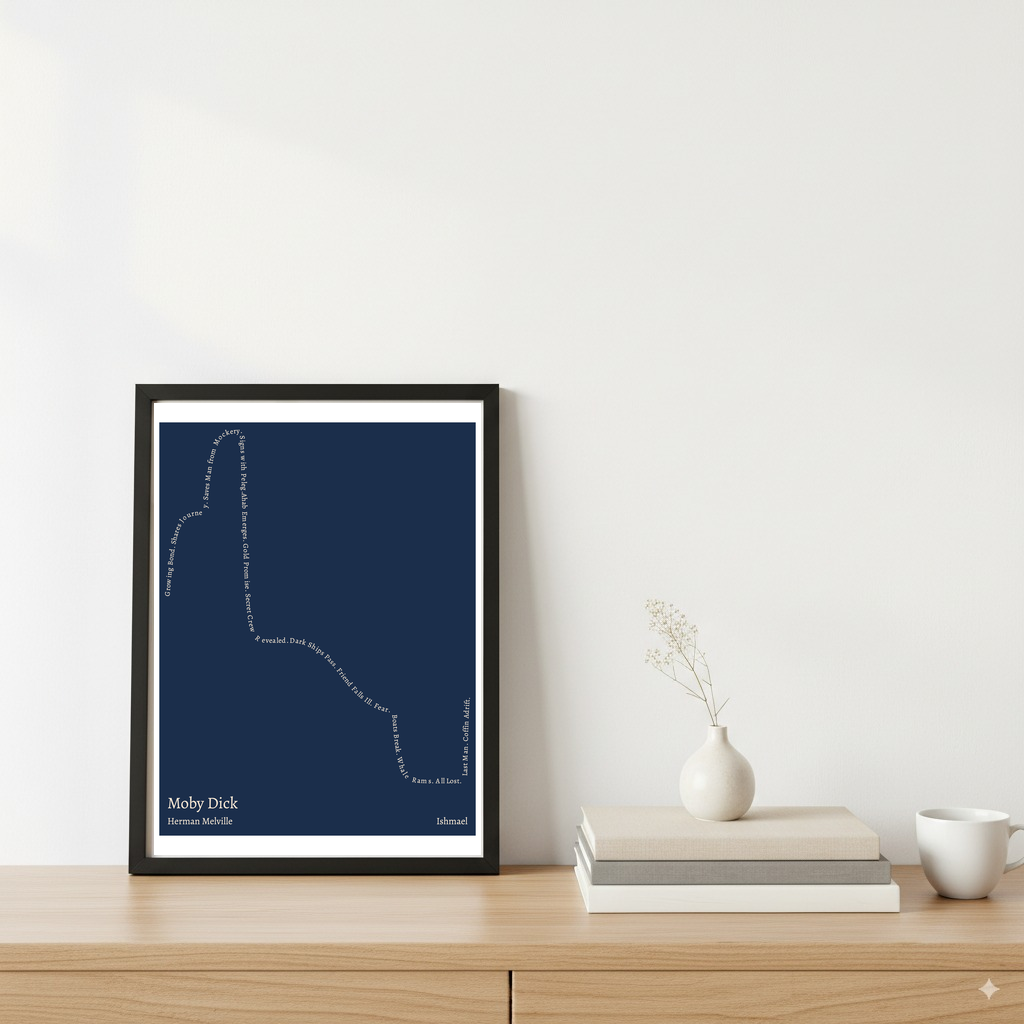
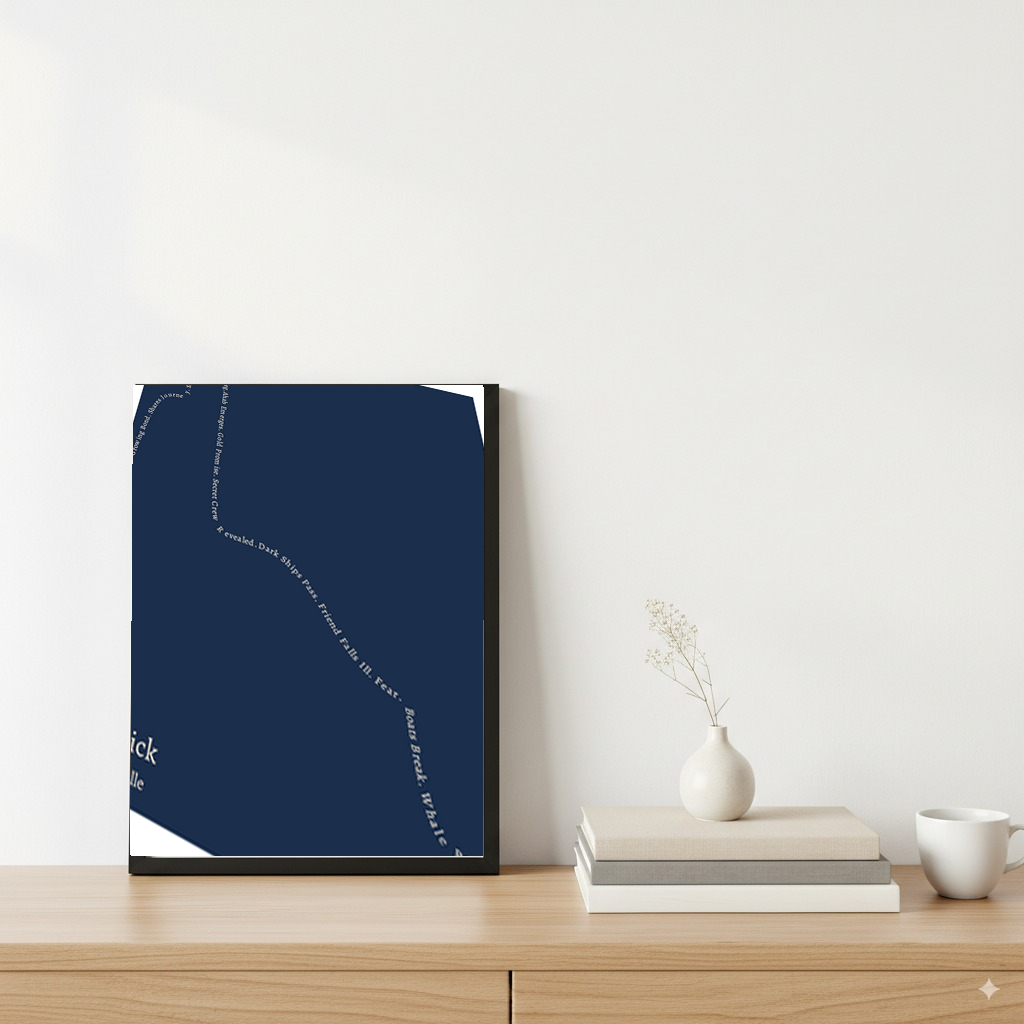
fixed issues with margins on right/left/top

diff --git a/src/create_mockup_v4.py b/src/create_mockup_v4.py
@@ -1,105 +1,103 @@
+
 # create_mockup.py
-# -----------------
-# Paste an artwork image into the inner mat opening of the mockup
-# image "11x14_1_frame_on_table" (straight-on; no keystone).
+# Perspective-safe mockup compositor: auto-detects the inner mat opening
+# as a quadrilateral and warps your art into it.
 #
-# Just set:
-#   BASE_PATH  -> your mockup image path
-#   ART_PATH   -> your design image path
-#   OUT_PATH   -> where to save the result
-#
-# Advanced: If you use a different-resolution copy of this mockup,
-# the code scales the opening rectangle from the 1024×1024 reference.
+# Set BASE_PATH, ART_PATH, OUT_PATH below and run:
+#   python create_mockup.py
 
 from PIL import Image, ImageOps, ImageDraw
+import numpy as np
 
-# --- USER INPUTS -------------------------------------------------------------
+# ------------------- USER INPUTS -------------------
 BASE_PATH = "/Users/johnmikedidonato/Projects/TheShapesOfStories/mockup_templates/11x14_1_frame_on_table.jpeg"  # mockup image
 ART_PATH  = "/Users/johnmikedidonato/Library/CloudStorage/GoogleDrive-johnmike@theshapesofstories.com/My Drive/data/story_shapes/title-moby-dick_protagonist-ishmael_product-print_size-11x14_line-type-char_background-color-#1B2E4B_font-color-#F5E6D3_border-color-#FFFFFF_font-Alegreya_title-display-yes.png"              # your artwork
 OUT_PATH  = "final_mockup_test_6.png"            # output
 
+# Measured on the 1024×1024 reference mockup (TL, TR, BR, BL)
+QUAD_REF = [(132, 383), (484, 383), (483, 857), (129, 857)]
+REF_SIZE = (1024, 1024)
 
-# Safety inset to hide the mat bevel (in pixels for the 1024×1024 reference);
-# will scale with image size.
-BLEED_REF_PX = 2
+INSET_PX_REF = 2      # inward safety inset at reference size
+SAVE_DEBUG = False    # set True to export an outline overlay
 
-# Debug: also save a version with a thin rectangle drawn over the opening
-SAVE_DEBUG_OVERLAY = False
-DEBUG_PATH = OUT_PATH.replace(".png", "_debug.png").replace(".jpg", "_debug.jpg")
+def scale_point(p, base_size, ref_size=REF_SIZE):
+    rx, ry = ref_size
+    bx, by = base_size
+    return (int(round(p[0] * bx / rx)), int(round(p[1] * by / ry)))
 
-# --- TEMPLATE-SPECIFIC CALIBRATION (do not change unless you re-measure) -----
-# Coordinates measured on the 1024×1024 reference mockup.
-REF_W, REF_H = 1024, 1024
+def scale_quad(quad, base_size):
+    return [scale_point(p, base_size) for p in quad]
 
-# Inner mat opening (the area where your print should appear)
-# (left, top, right, bottom) in the 1024×1024 reference
-#OPENING_BOX_REF = (131, 383, 482, 857)
-OPENING_BOX_REF = (152, 401, 483, 857)
+def inset_quad(quad, inset_px):
+    if inset_px <= 0:
+        return quad
+    cx = sum(p[0] for p in quad) / 4.0
+    cy = sum(p[1] for p in quad) / 4.0
+    out = []
+    for (x, y) in quad:
+        dx, dy = cx - x, cy - y
+        d = (dx*dx + dy*dy) ** 0.5 or 1.0
+        out.append((int(round(x + inset_px * dx / d)),
+                    int(round(y + inset_px * dy / d))))
+    return out
 
+def find_coeffs(pa, pb):
+    # pa: destination quad (TL,TR,BR,BL); pb: source quad (TL,TR,BR,BL)
+    matrix = []
+    for (x, y), (u, v) in zip(pa, pb):
+        matrix.extend([
+            [x, y, 1, 0, 0, 0, -u*x, -u*y],
+            [0, 0, 0, x, y, 1, -v*x, -v*y],
+        ])
+    A = [row[:] for row in matrix]
+    B = [u for (u, v) in pb] + [v for (u, v) in pb]
+    # small 8×8 solve
+    import numpy as np
+    return np.linalg.lstsq(np.array(A, float), np.array(B, float), rcond=None)[0].tolist()
 
-# If you ever want to cover closer to the inner mat edge:
-# OUTER_EDGE_BOX_REF = (148, 399, 498, 875)
-# -----------------------------------------------------------------------------
+def warp_into_quad(base, art, dst_quad):
+    bw, bh = base.size
+    xs, ys = zip(*dst_quad)
+    bb_w, bb_h = max(1, max(xs) - min(xs)), max(1, max(ys) - min(ys))
 
+    # Fit art to bounding box to keep resolution reasonable
+    art_fit = ImageOps.fit(art, (bb_w, bb_h), method=Image.LANCZOS)
+    src_quad = [(0, 0), (bb_w, 0), (bb_w, bb_h), (0, bb_h)]
 
-def scale_box(box, base_w, base_h, ref_w=REF_W, ref_h=REF_H):
-    """Scale a (l,t,r,b) box from reference size to the actual base image size."""
-    lx, ty, rx, by = box
-    sx = base_w / float(ref_w)
-    sy = base_h / float(ref_h)
-    return (
-        int(round(lx * sx)),
-        int(round(ty * sy)),
-        int(round(rx * sx)),
-        int(round(by * sy)),
-    )
+    coeffs = find_coeffs(dst_quad, src_quad)
+    warped = art_fit.transform((bw, bh), Image.PERSPECTIVE, coeffs, Image.BICUBIC)
 
+    # Polygon mask for crisp edges
+    mask = Image.new("L", (bw, bh), 0)
+    ImageDraw.Draw(mask).polygon(dst_quad, fill=255)
 
-def paste_into_opening(base_img, art_img, opening_box, bleed_px=0):
-    """Fit art into opening_box with optional inset (bleed_px) and paste."""
-    l, t, r, b = opening_box
-    # Apply safety inset
-    l += bleed_px
-    t += bleed_px
-    r -= bleed_px
-    b -= bleed_px
-
-    w, h = max(1, r - l), max(1, b - t)  # guard against rounding
-
-    # Fit art to exactly fill the opening while preserving aspect
-    fitted = ImageOps.fit(art_img, (w, h), method=Image.LANCZOS)
-
-    # Paste (handles alpha automatically if art has transparency)
-    base_img.paste(fitted, (l, t), fitted if fitted.mode == "RGBA" else None)
-    return base_img
-
-
-def draw_debug_overlay(img, box):
-    """Draw a 1px rectangle on a copy for visual verification."""
-    dbg = img.copy()
-    draw = ImageDraw.Draw(dbg)
-    draw.rectangle(box, outline=(255, 0, 255))
-    return dbg
-
+    # Composite (use paste with mask to avoid the earlier alpha_composite error)
+    base.paste(warped, (0, 0), mask)
+    return base
 
 def main():
     base = Image.open(BASE_PATH).convert("RGBA")
     art  = Image.open(ART_PATH).convert("RGBA")
 
-    # Scale opening box and bleed for the actual mockup size
-    opening_box = scale_box(OPENING_BOX_REF, base.width, base.height)
-    avg_scale = (base.width / REF_W + base.height / REF_H) / 2.0
-    bleed_px = max(1, int(round(BLEED_REF_PX * avg_scale)))
+    quad = scale_quad(QUAD_REF, base.size)
 
-    if SAVE_DEBUG_OVERLAY:
-        dbg = draw_debug_overlay(base, opening_box)
-        dbg.save(DEBUG_PATH)
+    # scale inset to your image size
+    inset_scaled = max(1, round(INSET_PX_REF * (base.width / REF_SIZE[0] + base.height / REF_SIZE[1]) / 2))
+    quad_in = inset_quad(quad, inset_scaled)
 
-    result = paste_into_opening(base, art, opening_box, bleed_px=bleed_px)
-    # Save as PNG to preserve quality; change to .jpg if you prefer
-    result.convert("RGB").save(OUT_PATH, quality=95)
-    print(f"Saved mockup → {OUT_PATH}")
+    if SAVE_DEBUG:
+        dbg = base.copy()
+        d = ImageDraw.Draw(dbg)
+        d.polygon(quad, outline=(255, 0, 0))
+        d.polygon(quad_in, outline=(0, 255, 0))
+        dbg.save(OUT_PATH.replace(".jpg", "_debug.jpg").replace(".png", "_debug.png"))
 
+    out = warp_into_quad(base, art, quad_in)
+    out.convert("RGB").save(OUT_PATH, quality=95)
+    print("Saved →", OUT_PATH)
+    print("Quad (TL,TR,BR,BL):", quad)
+    print("Inset quad:", quad_in)
 
 if __name__ == "__main__":
     main()

diff --git a/src/story_shape.py b/src/story_shape.py
@@ -612,10 +612,14 @@ def create_shape_single_pass(
     path_drawable_w    = drawable_width  - 2 * pad_x
     path_drawable_h    = drawable_height - pad_top
 
-    # Scale the path to this path-only box (do NOT use for the title band)
-    scale_x = path_drawable_w / x_range if x_range else 1
-    scale_y = path_drawable_h / y_range if y_range else 1
+    # NEW: scale for the PATH ONLY
+    scale_x_path = path_drawable_w / x_range if x_range else 1
+    scale_y_path = path_drawable_h / y_range if y_range else 1
 
+    # NEW: alias so any existing code that references scale_x/scale_y
+    # (angles, spacing, etc.) now uses the PATH scales automatically.
+    scale_x = scale_x_path
+    scale_y = scale_y_path
 
     if drawable_height <= 0:
          raise ValueError("Drawable height is zero or negative. Check margins, font sizes, paddings.")
@@ -629,8 +633,8 @@ def create_shape_single_pass(
     x_range = x_max - x_min
     y_range = y_max - y_min
 
-    scale_x = drawable_width / x_range if x_range else 1
-    scale_y = drawable_height / y_range if y_range else 1
+    # scale_x = drawable_width / x_range if x_range else 1
+    # scale_y = drawable_height / y_range if y_range else 1
 
     # The bottom edge for arcs is margin_y + drawable_height
     # x_values_scaled = [(x - x_min)*scale_x + margin_x for x in x_values]

diff --git a/src/create.py b/src/create.py
@@ -571,14 +571,14 @@ for row in rows:
         top_text_font_size = 12
         bottom_text_font_size = 12
         top_and_bottom_text_band = 1
-        border_thickness = 360 ## --> (360/300)/2 DPI --> 0.6 inches 
+        border_thickness = 360 #600 #300 #360 ## --> (360/300)/2 DPI --> 0.6 inches OR (300/300 DPI)/2 --> 0.5 in 
         width_in_inches = 11
         height_in_inches = 14
         wrap_in_inches = 0
         max_num_steps = 2
         step_k = 6
         has_border = True
-        fixed_margin_in_inches = 0.85 
+        fixed_margin_in_inches = 0.85  #1.25 #0.75 #0.85 
         #1 = 0.6 + 0.4 = 1
         #0.85 ## --> border thickness (0.6) + 0.25 = 0.85
 
